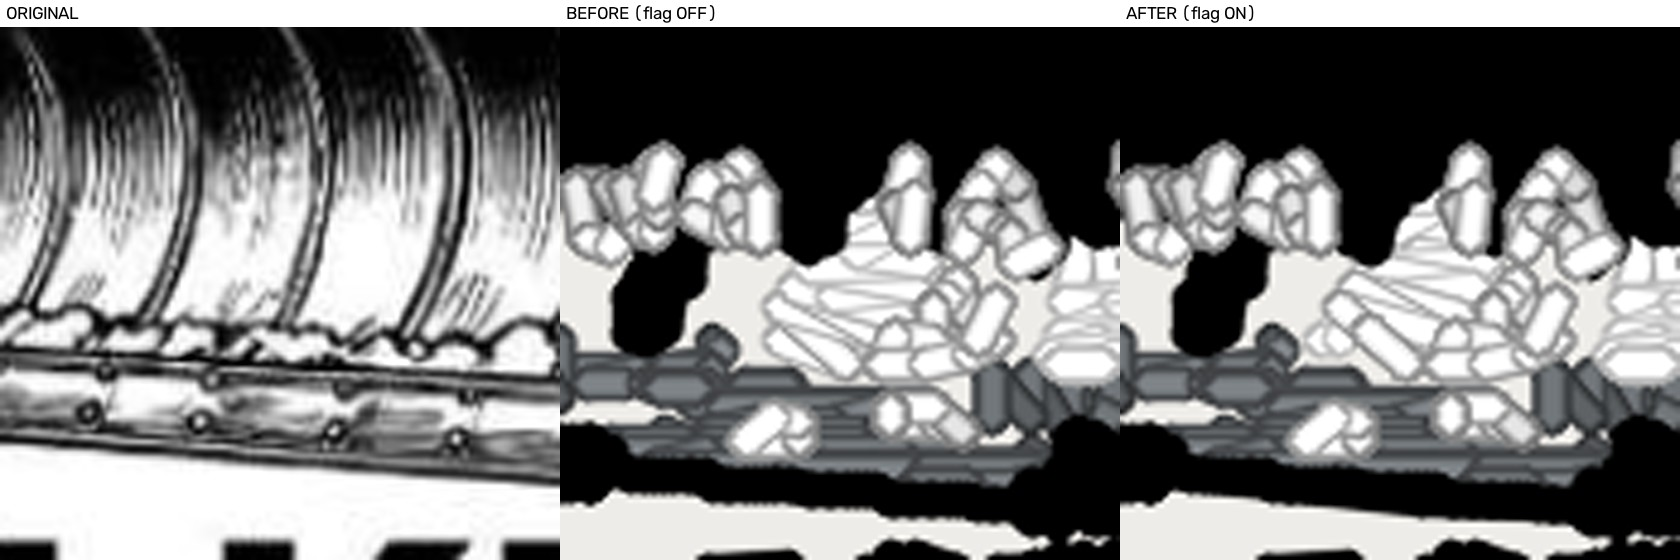
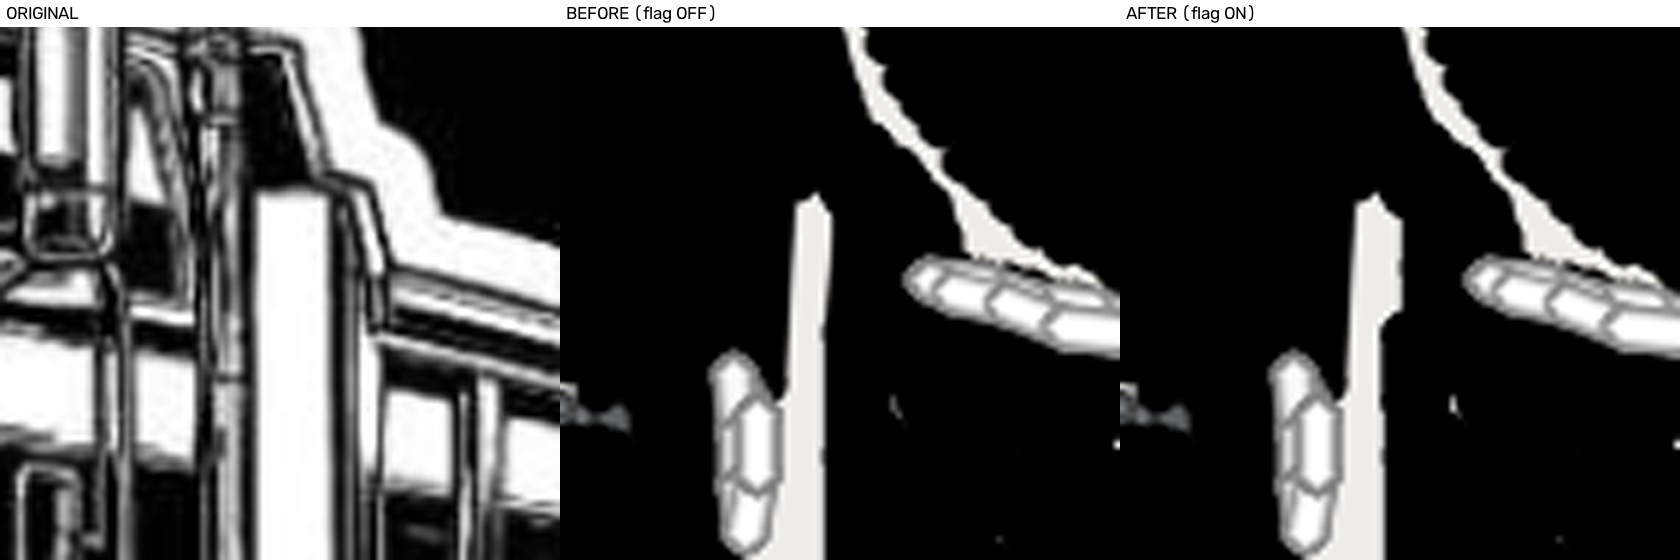
text_cluster_mixed_caps: second census run, the golke 'Photo' is back at its drawn size; zero worse
Claude-Session: https://claude.ai/code/session_01SfRndNKb4K5fDnRNqk7PZw

diff --git a/docs/renders/text-cluster-mixed-caps-2026-11-17/README.md b/docs/renders/text-cluster-mixed-caps-2026-11-17/README.md
@@ -43,20 +43,30 @@ faults and do not move.
 Settings: the Studio request at 80 mm on `left_chest` for the 26 `corpus_scorecard.FIXTURES`; each other
 `pro_baseline.JOBS` row at its own garment and width. Compared by md5 of `design["stitches"]`, flag OFF vs ON.
 
-**Fixtures: 3 of 26 moved; 3 pictured (every changed region, 11 images); 23 byte-identical.**
+**Fixtures: 3 of 26 moved; 3 pictured (every changed region); 23 byte-identical.**
 **Other pro rows that resolve here (9 beyond the first 9): 2 moved, both pictured (9 images); 7 byte-identical**
 (Becker hat small, Becker chest small, Becker LC large, Becker beanie, Gaulke LC, Gaulke beanie, Hotel Fremont
 patch). 18 of the 22 JOBS rows resolve in this container (not Bridge hat / LC, ProSeal hat / beanie).
 For photographs and for art with an unstitched margin the ORIGINAL panel is fitted by bounding box and is only
 approximate; judge BEFORE against AFTER.
 
-## WORSE (named first)
+## WORSE (named first): none in the second run
 
-| Design | Pictures | By eye |
+**First run (flag as first built): 1 worse.** `screenshot_phone_ui_golke`: the "Photo" label tagged as a
+mixed-height word (ascender over x-height) and the small-text re-set grew it to about twice its drawn size, low and
+crowding the chevron (`first_run_golke_worse/`, 11,024 stitches).
+
+**Fix (second run):** a line that tags only through the mixed-height pass is marked (`text_cluster_mixed_caps` in
+the regions' meta) and goes to the column lane at its DRAWN size: `small_text.enlarge_small_text` and
+`restore_small_text` skip it, and `regularize_text_clusters` never redraws it. A line that tags without the pass
+is untouched. OFF is byte-identical (nothing is marked).
+
+| Design | Pictures | By eye, second run |
 |---|---|---|
-| `screenshot_phone_ui_golke` (fixture) | `fixture_screenshot_phone_ui_golke__zoom1.jpg`, `__whole` | **WORSE.** The "Photo" label of the phone screenshot now tags as a word and the small-text re-set grows it to about twice its drawn size (BEFORE: a small black cluster; AFTER: a large "Photo" that sits low and crowds the chevron icon). More legible, but the wrong size. The mechanism is the flag's own: a lowercase word with an ascender (P, h, t) over x-height letters is a mixed-height line, so it now tags and is re-set. Stitches 10,864 -> 11,024, trims 125 -> 127. |
+| `screenshot_phone_ui_golke` (fixture) | `fixture_screenshot_phone_ui_golke__whole.jpg`, `__zoom1`, `__zoom2` | **no visible change.** "Photo" is back at its drawn size, the same as OFF. The two remaining changed regions (the truck's chrome, a grille patch) show no visible difference. 10,864 -> 10,858 stitches, trims 125 -> 127. |
 
-The other two zooms of this design (`zoom2`, `zoom3`, the truck's chrome and grille) show no visible change.
+The TOAT jobs and every other mover are unchanged by this fix (identical stitch counts in both runs), so their
+pictures above stand.
 
 ## Better
 
@@ -72,5 +82,6 @@ The other two zooms of this design (`zoom2`, `zoom3`, the truck's chrome and gri
 | `repro_gradient_white_icon` (fixture) | `fixture_repro_gradient_white_icon__zoom1`, `__whole` | no visible change at the size shown (the lower-right border's thread differs by a few stitches). 22,911 -> 22,813. |
 | `mfab_lc` (pro row) | `pro_row_mfab_lc__zoom1..4`, `__whole` | no visible change: connector and fan stitches shift inside the lettering. 17,906 -> 17,966, trims 24 -> 26. |
 
-**Totals:** 9 + 9 pro rows + 26 fixtures = 44 designs; 7 moved (the 3 TOAT rows are one artwork, plus 3 fixtures and
-`mfab_lc`), every mover pictured. By eye: 3 better (all TOAT), **1 worse (golke screenshot)**, 3 no visible change.
+**Totals (second run):** 9 + 9 pro rows + 26 fixtures = 44 designs; 7 moved (the 3 TOAT rows are one artwork, plus 3
+fixtures and `mfab_lc`), every mover pictured. By eye: 3 better (all TOAT), **0 worse**, 4 no visible change
+(`drone_render`, `repro_gradient_white_icon`, `golke screenshot`, `mfab_lc`).
